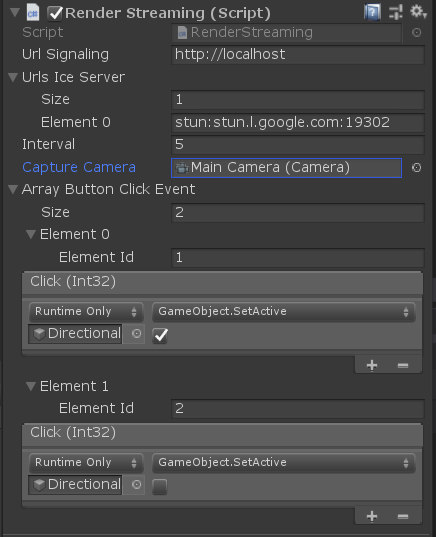
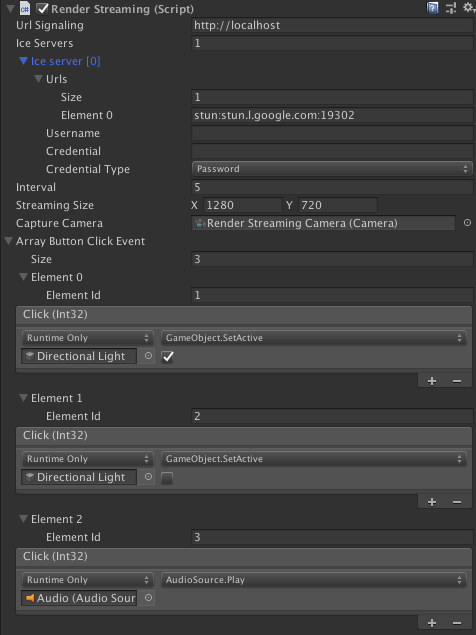
docs: fixed documents (#140)

diff --git a/Packages/com.unity.template.renderstreaming/Documentation~/jp/tutorial.md b/Packages/com.unity.template.renderstreaming/Documentation~/jp/tutorial.md
@@ -2,22 +2,32 @@
 
 ### パッケージのダウンロード
 
-Render Streaming の利用を開始するためには、[Github Release](https://github.com/Unity-Technologies/UnityRenderStreaming/releases) からパッケージをダウンロードしてください。2つのパッケージをダウンロードします。
+Render Streaming の利用を開始するためには、[Github Release](https://github.com/Unity-Technologies/UnityRenderStreaming/releases) からパッケージをダウンロードします。ダウンロードしたパッケージを所定のフォルダに移動することで、プロジェクトテンプレートとして利用することが可能です。
 
-- `com.unity.webrtc.tgz`
-- `com.unity.template.renderstreaming.tgz`
+> [!NOTE]
+> < 既存のプロジェクトに対して Render Streaming を組み込みたい場合は、プロジェクトテンプレートではなく、 [こちら](../../../com.unity.renderstreaming/Documentation~/ja/index.md) を参考にしてください。>
 
-ダウンロードしたパッケージを所定のフォルダに移動することで、プロジェクトテンプレートとして利用することが可能です。
+[Github Release](https://github.com/Unity-Technologies/UnityRenderStreaming/releases) から2つのパッケージをダウンロードします。
+
+- `com.unity.renderstreaming-1.0.0-preview.tgz`
+- `com.unity.template.renderstreaming-1.0.0-preview.tgz`
+
+もう1つのパッケージは `com.unity.webrtc` リポジトリの [Github Release](https://github.com/Unity-Technologies/com.unity.webrtc/releases) からダウンロードします。 
+
+- `com.unity.webrtc-1.0.0-preview.tgz`
+
+> [!NOTE]
+> < これらの作業は暫定的なものです。将来的にはこれらのパッケージは PackageManager に登録される予定です。PackageManager から直接ダウンロード可能になれば、手動でのパッケージインストールは不要になります。 >
 
 ### プロジェクトテンプレート (Experimental)
 
-プロジェクトテンプレートは、Unity で新規プロジェクトを作成するときにテンプレートとして選択することができます。
+プロジェクトテンプレートとは、Unity で新規プロジェクトを作成するときに設定済みの Unity プロジェクトを選択できる機能です。
 
 <img src="../images/template_in_unityhub.png" width=600 align=center>
 
-テンプレートパッケージを利用する際は、2つの tgz ファイルをそれぞれ以下のフォルダに配置します。
+テンプレートパッケージを利用する際は、 tgz ファイルをそれぞれ以下のフォルダに配置します。
 
-`com.unity.template.renderstreaming.tgz` を以下のフォルダに移動
+`com.unity.template.renderstreaming-1.0.0-preview.tgz` を以下のフォルダに移動
 
 ```
  <Unity Editor Root>/Data/Resources/PackageManager/ProjectTemplates
@@ -25,7 +35,7 @@ Render Streaming の利用を開始するためには、[Github Release](https:/
 
 <img src="../images/install_renderstreaming_package.png" width=600 align=center>
 
-`com.unity.webrtc.tgz` を以下のフォルダに移動
+`com.unity.webrtc-1.0.0-preview.tgz` と`com.unity.renderstreaming-1.0.0-preview.tgz`を以下のフォルダに移動
 
 ```&lt;Unity Editor Root&gt;/Data/Resources/PackageManager/Editor
 <Unity Editor Root>/Data/Resources/PackageManager/Editor
@@ -37,11 +47,15 @@ Render Streaming の利用を開始するためには、[Github Release](https:/
 
 ### Web サーバの起動
 
-Webサーバの実行ファイルは `Assets/~bin/` 以下に配置しています。ファイルを実行すると、コマンドプロンプトが起動します。
+Webサーバの実行ファイルはメニューからダウンロードします。メニューから`Edit > Unity Render Streaming > Download Web app` を選択してください。
+
+<img src="../images/menu_download_webapp.png" width=500 align=center>
+
+メニューを実行すると、ダウンロードが開始されます。ダウンロードが完了すると、ダウンロード先のフォルダ指定ダイアログが表示されます。ダウンロード先フォルダを指定すると、フォルダウィンドウが表示されます。
 
 <img src="../images/launch_webserver_explorer.png" width=500 align=center>
 
-コマンドプロンプトに以下のようなログが表示されていることを確認してください。 Web サーバのアドレスが表示されます。Web サーバのコマンドオプションの詳細は [Web サーバ](webserver.md)のページを参照してください。
+`webserver.exe` を実行すると、コマンドプロンプトが起動します。コマンドプロンプトに以下のようなログが表示されていることを確認してください。 Web サーバのアドレスが表示されます。Web サーバのコマンドオプションの詳細は [Web サーバ](webserver.md)のページを参照してください。
 
 <img src="../images/launch_webserver_cmd.png" width=400 align=center>
 

diff --git a/Packages/com.unity.template.renderstreaming/Documentation~/jp/class-renderstreaming.md b/Packages/com.unity.template.renderstreaming/Documentation~/jp/class-renderstreaming.md
@@ -6,17 +6,22 @@
 - カメラからの入力をストリームとして送信
 - ブラウザからの入力とイベントとの関連付け
 
-<img src="../images/renderstreaming_inspector.png" width=400 align=center>
+<img src="../images/renderstreaming_inspector.png" width=500 align=center>
 
 ## プロパティー
 
-| パラメータ               | 説明                                                     | デフォルト                       |
-| ------------------------ | -------------------------------------------------------- | -------------------------------- |
-| URL Signaling            | シグナリングサーバのURLを指定します                      | http://localhost                 |
-| URLs Ice Server          | STUN/TURN サーバをリストで指定します                     | \[stun:stun.l.google.com:19302\] |
-| Interval                 | シグナリングサーバへのポーリング頻度を秒単位で指定します | 5                                |
-| Capture Camera           | ストリーミング用のカメラを指定します                     |                                  |
-| Array Button Click Event | ブラウザ上のボタンクリックイベントを登録します           |                                  |
-
-## 詳細
+| パラメータ                   | 説明                                                         | デフォルト                      |
+| ---------------------------- | ------------------------------------------------------------ | ------------------------------- |
+| **URL Signaling**            | シグナリングサーバのURLを指定します                          | http://localhost                |
+| **Ice Servers**              | STUN/TURN サーバをリストで指定します                         |                                 |
+| *Urls*                       | STUN/TURN サーバのURL を指定します                           | [stun:stun.l.google.com:19302\] |
+| *Username*                   | TURN サーバを利用するときに使用するユーザ名                  |                                 |
+| *Credencial*                 | TURN サーバを利用するときにサーバーにログインするときに使用する資格情報 |                                 |
+| *Credencial Type*            | TURN サーバを利用するときにログイン時に使用される資格情報の種類を指定します | Password                        |
+| **Interval**                 | シグナリングサーバへのポーリング頻度を秒単位で指定します     | 5                               |
+| **Streaming Size**           | ストリーミングに使用するフレームバッファのサイズです         | 1280, 720                       |
+| **Capture Camera**           | ストリーミング用のカメラを指定します                         |                                 |
+| **Array Button Click Event** | ブラウザ上のボタンクリックイベントを登録します               |                                 |
+| *Element Id*                 | ブラウザから送られる ID を指定します                         |                                 |
+| *Click*                      | ボタンクリックイベントを登録します                           |                                 |
 

diff --git a/Packages/com.unity.template.renderstreaming/Documentation~/en/class-renderstreaming.md b/Packages/com.unity.template.renderstreaming/Documentation~/en/class-renderstreaming.md
@@ -6,17 +6,21 @@
 - Streaming input from cameras 
 - Associating browser input with events
 
-<img src="../images/renderstreaming_inspector.png" width=400 align=center>
+<img src="../images/renderstreaming_inspector.png" width=500 align=center>
 
 ## Properties
 
 | Parameter                | Description                                              | Default                          |
-| ------------------------ | -------------------------------------------------------- | -------------------------------- |
-| URL Signaling            | Set the signaling server URL                      | http://localhost                 |
-| URLs Ice Server          | Set a list of STUN/TURN servers                    | \[stun:stun.l.google.com:19302\] |
-| Interval                 | Set the polling frequency (in seconds) to the signaling server | 5                                |
-| Capture Camera           | Set the streaming camera                     |                                  |
-| Array Button Click Event | Register browser button click events           |                                  |
-
-## Details
-
+| ---------------------------- | ------------------------------------------------------------ | ------------------------------- |
+| **URL Signaling**            | Set the signaling server URL                         | http://localhost                |
+| **Ice Servers**              | Set a list of STUN/TURN servers                         |                                 |
+| *Urls*                       | Set URLs of STUN/TURN servers                            | [stun:stun.l.google.com:19302\] |
+| *Username*                   | The username to use when logging into the TURN server |                                 |
+| *Credencial*                 | The credential to use when logging into the TURN server |                                 |
+| *Credencial Type*            | This attribute specifies what kind of `credential` is to be used when connecting to the TURN server | Password                        |
+| **Interval**                 | Set the polling frequency (in seconds) to the signaling server     | 5                               |
+| **Streaming Size**           | The size of the frame buffer for the streaming | 1280, 720                       |
+| **Capture Camera**           | Set the streaming camera                           |                                 |
+| **Array Button Click Event** | Register browser button click events                |                                 |
+| *Element Id*                 | Set an ID that is sent from browsers |                                 |
+| *Click*                      | Set button click event     |                                 |

diff --git a/README.md b/README.md
@@ -7,11 +7,10 @@ This solution's streaming technology takes advantage of [WebRTC](https://webrtc.
 
 <img src="Packages/com.unity.template.renderstreaming/Documentation~/images/multitouch.gif" width=500 align=center>
 
-This repository manages 3 packages. Details can be found in the README.md for each package.
+This repository manages 2 packages. Details can be found in the `README.md` for each package.
 
 - [com.unity.template.renderstreaming](Packages/com.unity.template.renderstreaming/Documentation~/index.md)
 - [com.unity.renderstreaming](Packages/com.unity.renderstreaming/Documentation~/index.md)
-- [com.unity.webrtc](Packages/com.unity.webrtc/Documentation~/index.md)
 
 ## Operating Environment
 
@@ -23,19 +22,20 @@ Unity 2018.3 relies on the [New Input System](https://github.com/Unity-Technolog
 Browser support depends on the status of each browser's WebRTC support.
 
 - Desktop Chrome
+
 - Desktop Firefox
+
 - Desktop Safari
+
 - Android Chrome
+
 - iOS Safari
 
 ### License
 
-`com.unity.template.renderstreaming` license
-- [LICENSE.md](Packages/com.unity.template.renderstreaming/LICENSE.md)
+- `com.unity.renderstreaming` -  [LICENSE.md](Packages/com.unity.renderstreaming/LICENSE.md)
 
-`com.unity.webrtc` license
-- [LICENSE.md](Packages/com.unity.webrtc/LICENSE.md)
-- [Third Party Notices.md](Packages/com.unity.webrtc/Third%20Party%20Notices.md)
+- `com.unity.template.renderstreaming` -  [LICENSE.md](Packages/com.unity.template.renderstreaming/LICENSE.md)
 
 ### Graphics Cards
 
@@ -50,10 +50,10 @@ This solution is optimised for NVIDIA graphics cards. Using a recommended graphi
 │   ├── Scenes
 │   ├── Scripts
 │   └── Tests
+├── EmptyProjectForTest~
 ├── Packages
 │   ├── com.unity.renderstreaming
-│   ├── com.unity.template.renderstreaming
-│   └── com.unity.webrtc
+│   └── com.unity.template.renderstreaming
 ├── ProjectSettings
 ├── Plugin
 │   ├── WebRTCPlugin
@@ -71,8 +71,8 @@ This solution is optimised for NVIDIA graphics cards. Using a recommended graphi
 |Version|libwebrtc version|Focus|
 |-------|-----|-----|
 |`1.0`|[M72](https://groups.google.com/forum/#!msg/discuss-webrtc/3h4y0fimHwg/j6G4dTVvCAAJ)|- First release |
-|`2.0`||- Multi camera <br>- Simulcast |
-|`2.1`||- Linux support <br>- Add HW encoder<br>- <br>- |
+|`2.0`||- Multi camera <br>- DirectX12 (DXR) Support <br>- Simulcast |
+|`2.1`||- Linux support <br>- Add HW encoder |
 
 ## FAQ
 

diff --git a/Packages/com.unity.template.renderstreaming/Documentation~/jp/faq.md b/Packages/com.unity.template.renderstreaming/Documentation~/jp/faq.md
@@ -10,9 +10,11 @@
 
 Web サーバの[起動時オプション](webserver.md)を確認してください。**Safari** 及び **iOS Safari** は、 **http** では WebRTC の機能を利用できません。 **https** を利用する必要があります。
 
-### Unity 実行時の初期化に失敗する
+### 実行時に初期化で失敗する
 
 **Nvcodec** が利用可能なグラフィックボードが利用可能であることを確認してください。また、グラフィックドライバは最新のバージョンをインストールしてください。`com.unity.webrtc` のドキュメントも確認してください。
+
+あるいは、Graphics API は現在のところ `Dirext3D11` のみになります。それ以外の API を選択している場合は初期化に失敗します。
 
 ### Web サーバの起動に失敗する
 
@@ -54,3 +56,6 @@ Windows10 x64で利用可能です。他の OS にも順次対応予定です。
 
 画像品質はネットワーク品質に依存します。
 
+### リアルタイムレイトレーシングには対応している？
+
+バージョン1.0 現在未対応です。

diff --git a/Packages/com.unity.template.renderstreaming/Documentation~/en/faq.md b/Packages/com.unity.template.renderstreaming/Documentation~/en/faq.md
@@ -14,6 +14,8 @@ Check the web server's [startup options](webserver.md). In **Safari** and **iOS 
 
 Make sure you're using a graphics card that supports **Nvcodec**. Also confirm that the latest graphics driver version is installed. See also: `com.unity.webrtc` documentation.
 
+And currently, this package supports only `Direct3D11`. If you select other API, the initialization process will fail. 
+
 ### Web server fails to run 
 
 Make sure the port isn't being used by another service. 
@@ -54,4 +56,6 @@ Currently, version 1.0 cannot.
 
 Video quality depends on the quality of the network. 
 
+### Is Realtime-Raytracing supported? 
 
+Currently, version 1.0 cannot.

diff --git a/Packages/com.unity.template.renderstreaming/Documentation~/en/tutorial.md b/Packages/com.unity.template.renderstreaming/Documentation~/en/tutorial.md
@@ -9,8 +9,8 @@ There are 2 ways to get started with Render Streaming.
 
 If you decide to download the package, please download these 2 packages. 
 
-- com.unity.webrtc.tgz
-- com.unity.template.renderstreaming.tgz
+- `com.unity.renderstreaming-1.0.0-preview.tgz`
+- `com.unity.template.renderstreaming-1.0.0-preview.tgz`
 
 Put the packages in a dedicated folder in order to use them as a project template.
 

diff --git a/Packages/com.unity.template.renderstreaming/Documentation~/index.md b/Packages/com.unity.template.renderstreaming/Documentation~/index.md
@@ -27,6 +27,8 @@ This version of Render Streaming is compatible with the following versions of th
 
 Currently the software only supports `windows64`.
 
+Graphics API version is only supports `Direct3D11`.
+
 ### Browsers
 
 - Desktop Chrome
